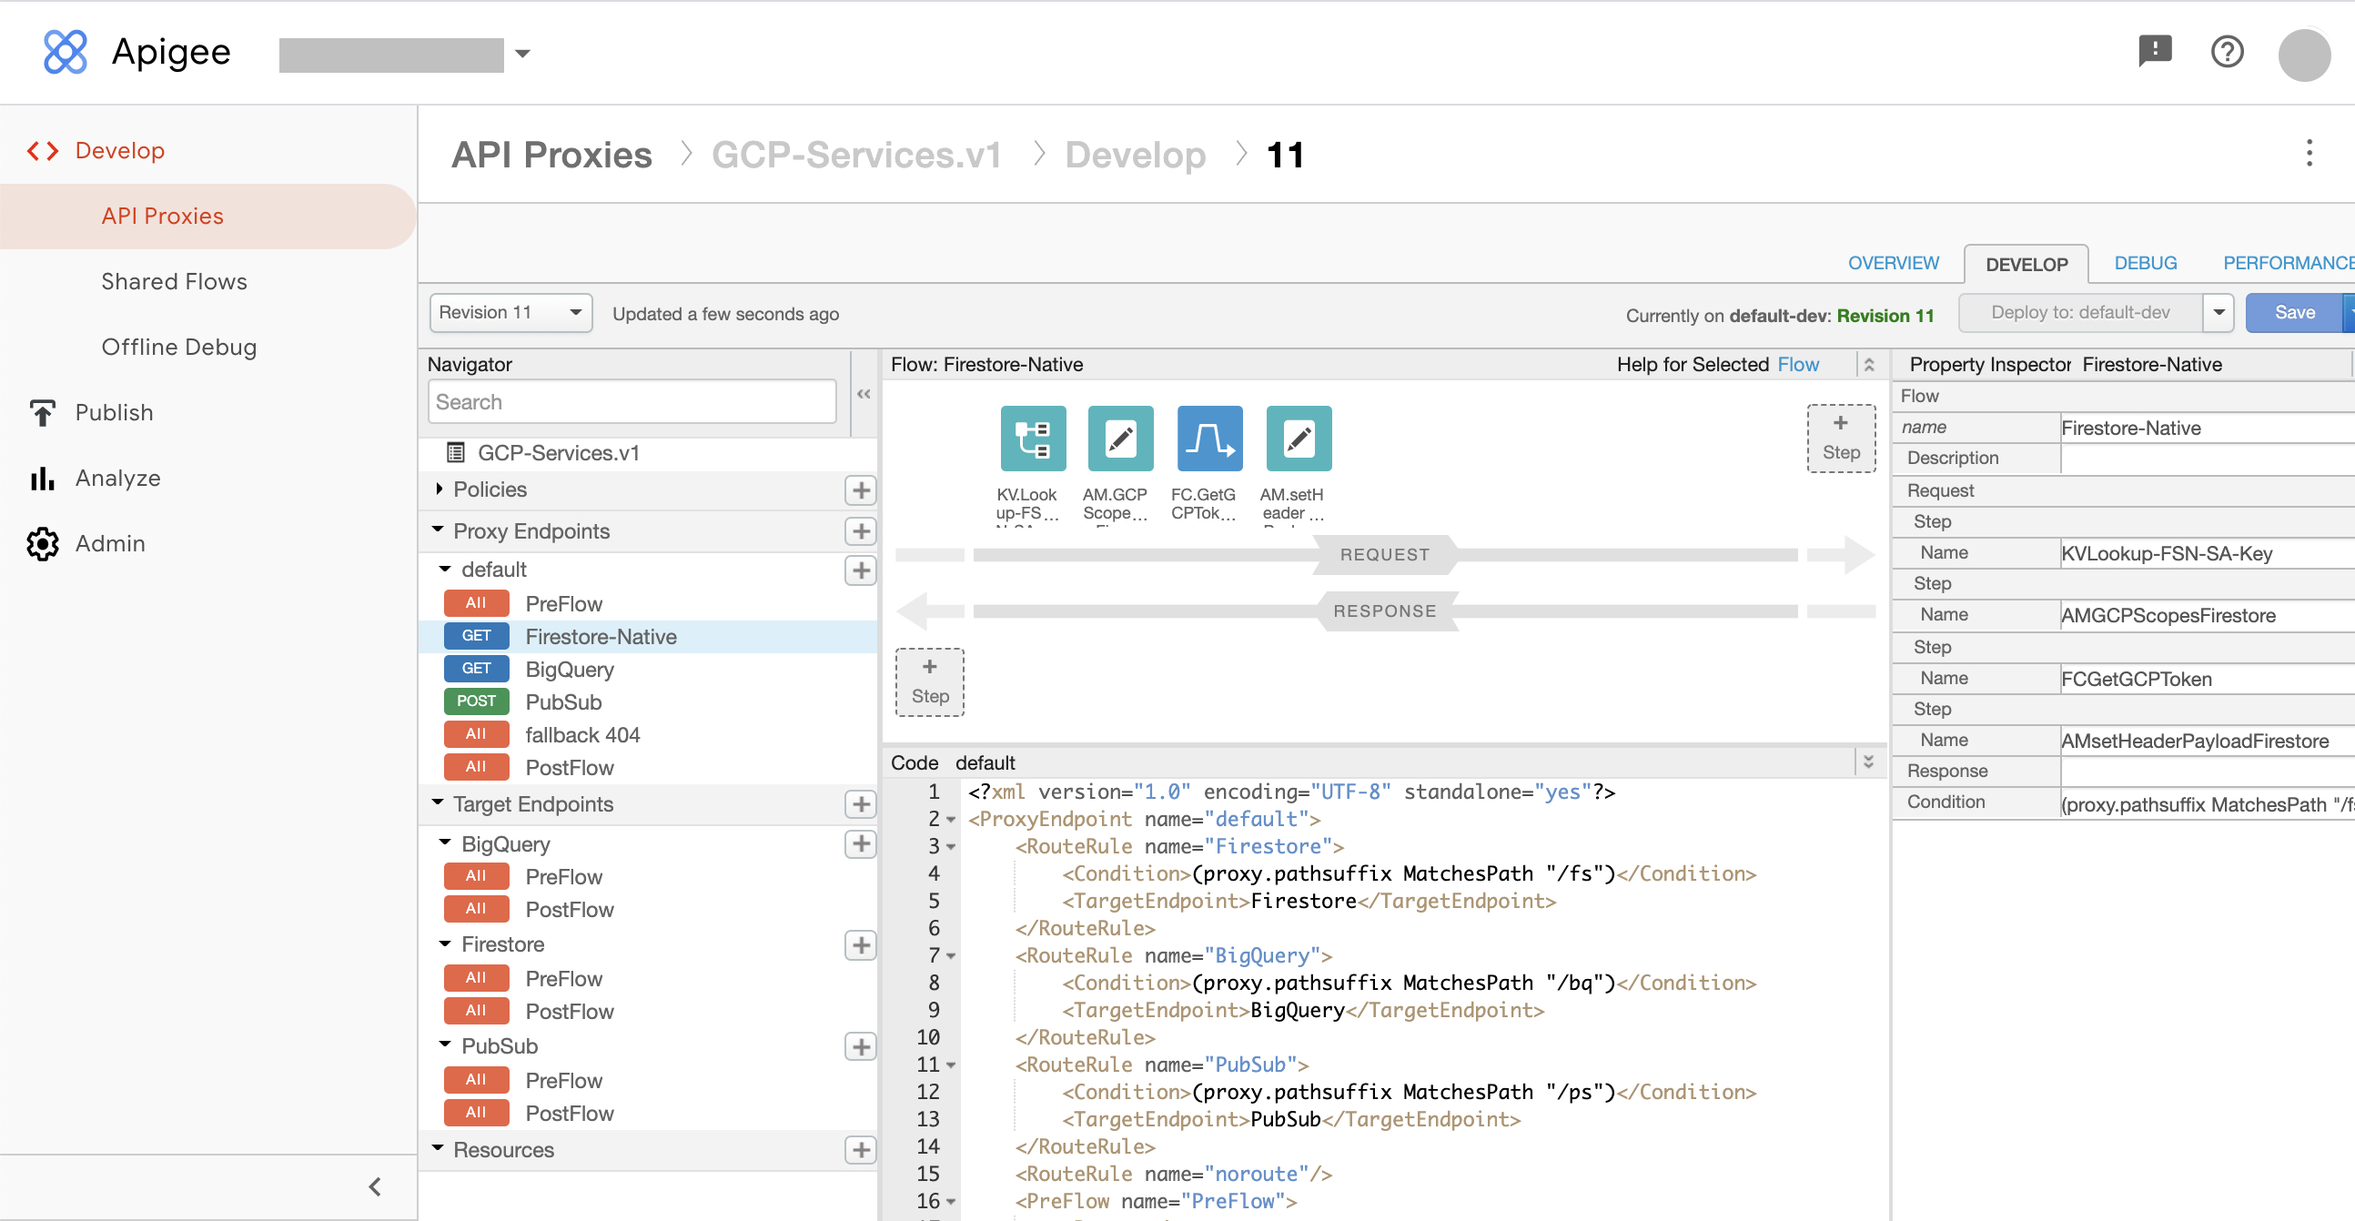
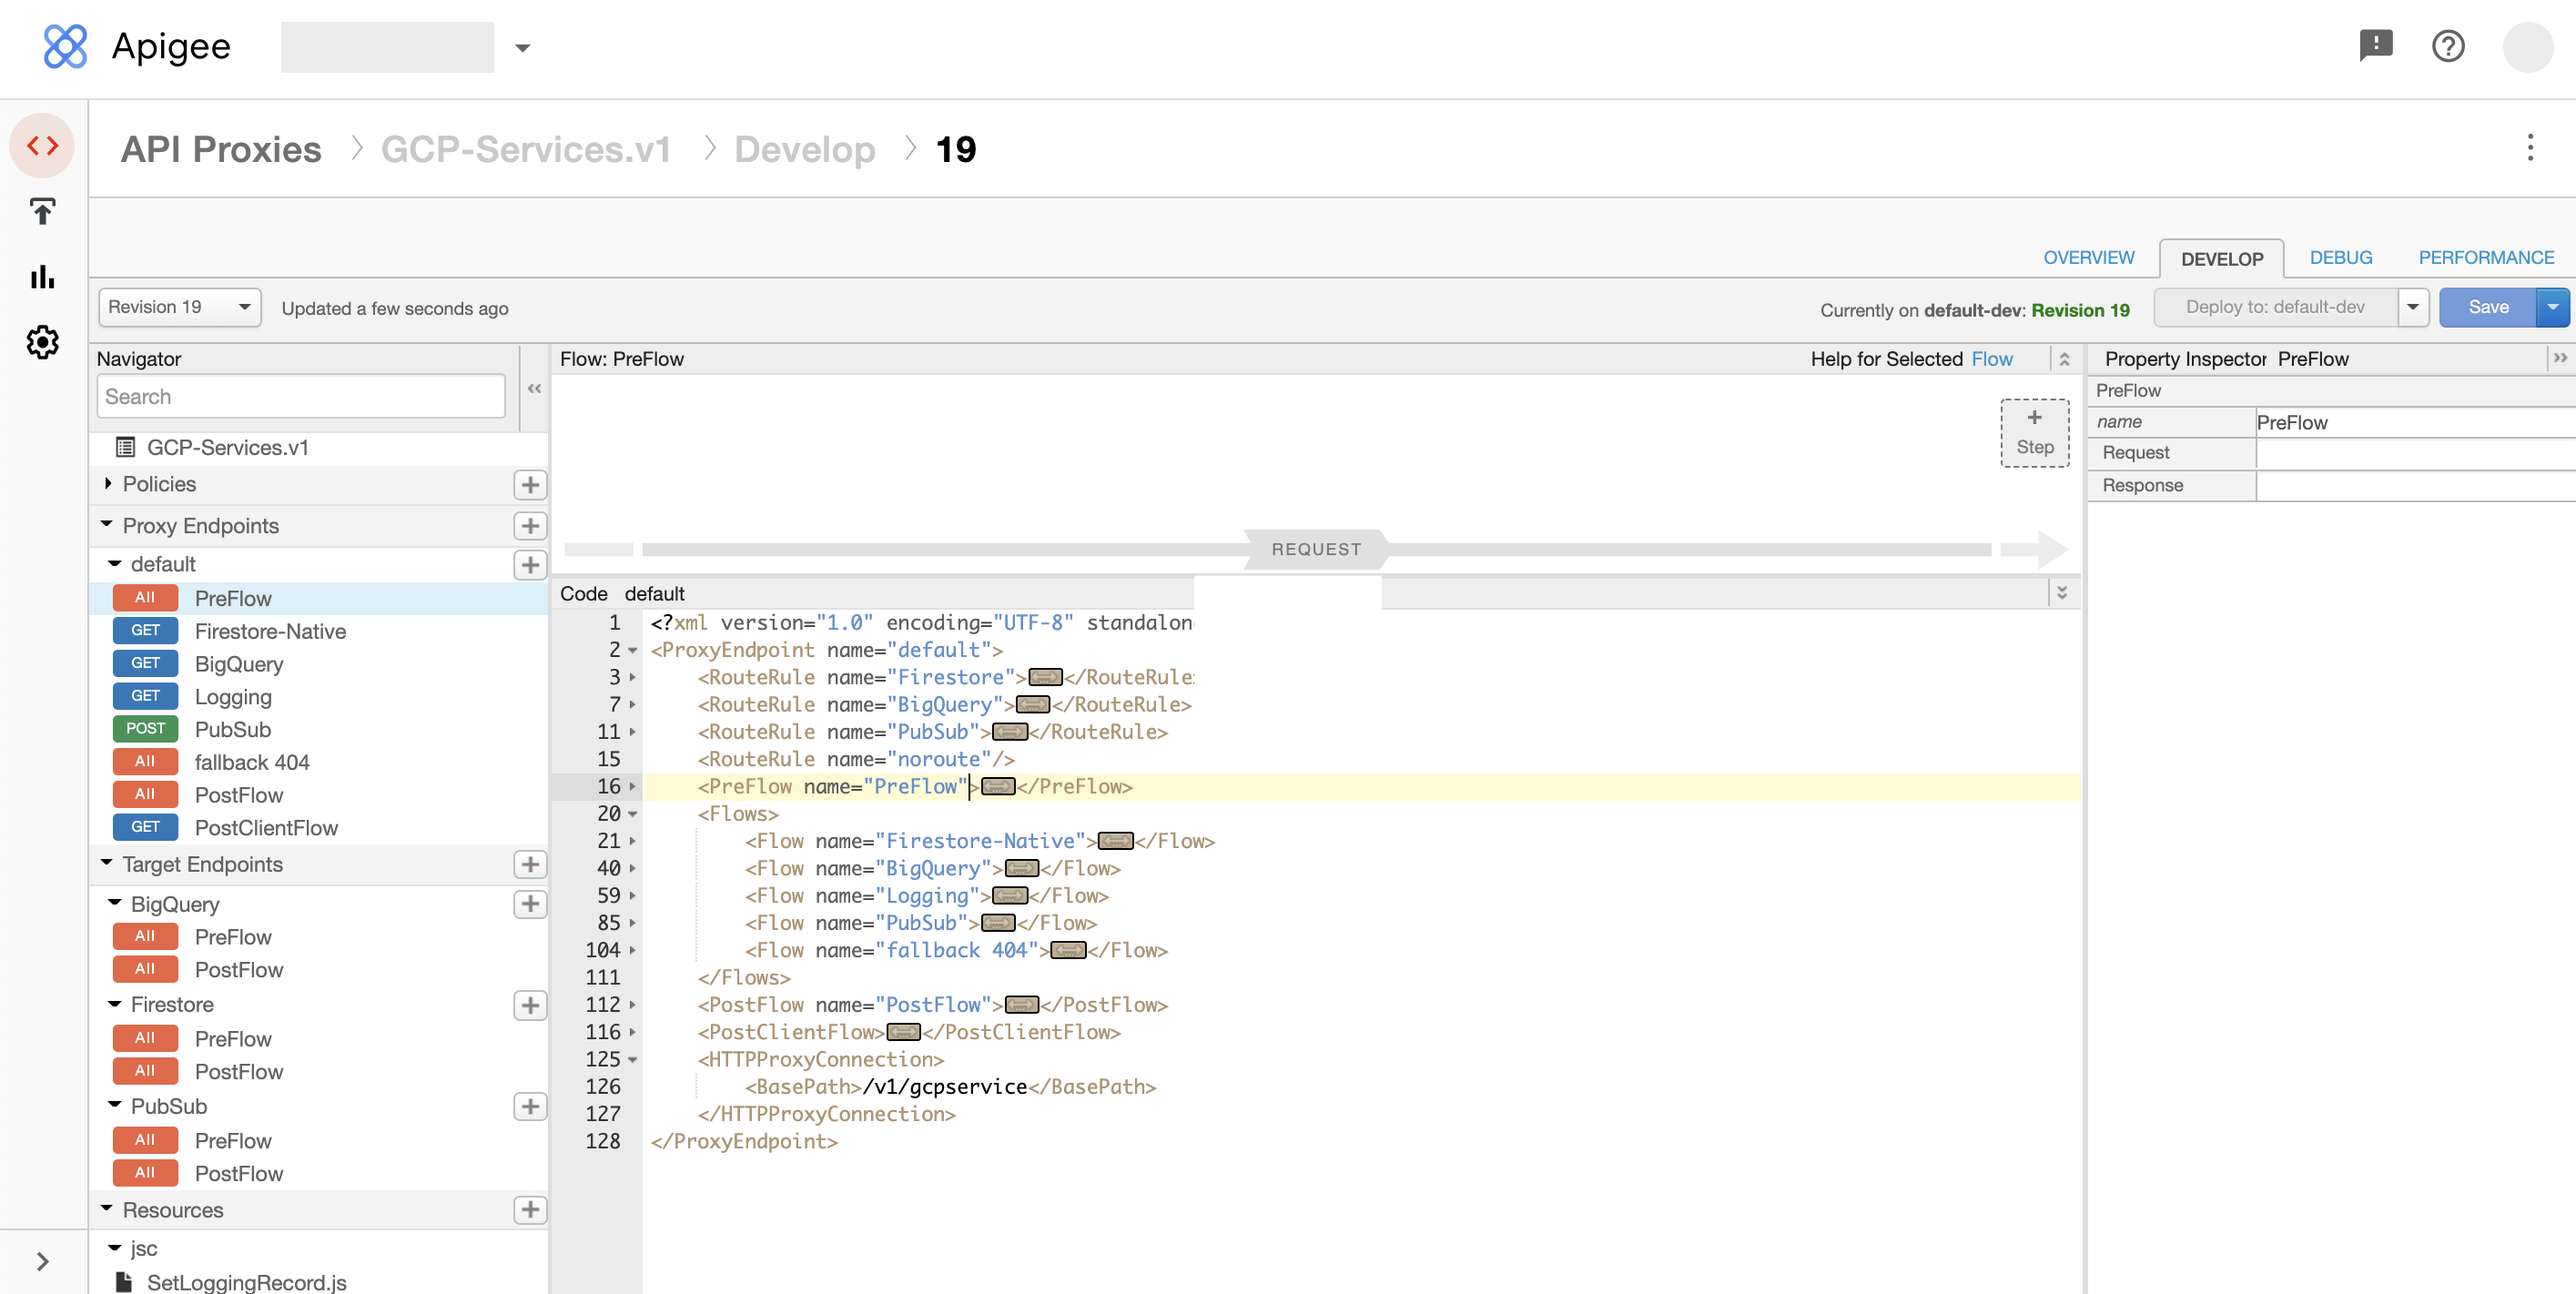
Add Cloud Logging

diff --git a/apiproxy/resources/jsc/SetLoggingRecord.js b/apiproxy/resources/jsc/SetLoggingRecord.js
@@ -1,0 +1,43 @@
+  
+var organization = context.getVariable("organization.name");
+var environment = context.getVariable("environment.name");
+var region = context.getVariable("system.region.name") || "none";
+var apiProxy = context.getVariable("apiproxy.name");
+var apiProxyRevision = context.getVariable("apiproxy.revision");
+var requestUrl = context.getVariable("request.url");
+var verb =  context.getVariable("request.verb");
+var correlationId = context.getVariable("messageid");
+var client_ip = context.getVariable("client.ip");
+var target_ip = context.getVariable("target.ip") || "none";
+var target_host = context.getVariable("target.host") || "none";
+var proxyRequestReceived = context.getVariable("client.received.end.timestamp");
+var proxyResponseSent = context.getVariable("client.sent.end.timestamp");
+var targetResponseReceived = context.getVariable("target.received.end.timestamp") || "none";
+var targetRequestSent = context.getVariable("target.sent.end.timestamp") || "none";
+var targetResponseCode = context.getVariable("message.status.code");
+var proxyResponseCode = context.getVariable("response.status.code");
+var fault_name = context.getVariable("fault.name") || "none";
+
+
+var LogRecord = {
+  "organization": organization,
+  "environment": environment,
+  "region": region,
+  "apiProxy": apiProxy,
+  "apiProxyRevision": apiProxyRevision,
+  "requestUrl": requestUrl,
+  "verb": verb,
+  "correlationId": correlationId,
+  "client_ip": client_ip,
+  "target_ip": target_ip, 
+  "target_host": target_host, 
+  "proxyRequestReceived": proxyRequestReceived,
+  "proxyResponseSent": proxyResponseSent,
+  "targetResponseReceived": targetResponseReceived,
+  "targetRequestSent": targetRequestSent,
+  "targetResponseCode": targetResponseCode,
+  "proxyResponseCode": proxyResponseCode,
+  "faultName": fault_name
+ }
+
+context.setVariable("gcplogging.logpayload", JSON.stringify(LogRecord));

diff --git a/README.md b/README.md
@@ -8,7 +8,7 @@
 
 ## Intro
 
-This repository contains a proxy for Apigee Edge/x/hybrid to call 3 GCP Services: BigQuery (read) and Cloud Firestore in Native mode (list) and PubSub (publish). It doesn't use Apigee Edge extension features.
+This repository contains a proxy for Apigee Edge/x/hybrid to call 4 GCP Services: BigQuery (read) and Cloud Firestore in Native mode (list), Cloud Logging (write) and PubSub (publish). It doesn't use Apigee Edge extension features.
 
 ![Proxy Overview](/images/proxy-overview.jpg)
 
@@ -25,13 +25,13 @@ This repository contains a proxy for Apigee Edge/x/hybrid to call 3 GCP Services
 
 3. Deploy this proxy<BR>Deploy proxy in **apiproxy** folder.
 
-4. Create GCP Service Accounts<BR>To authorize Apigee to use Google Cloud BigQuery and PubSub, you must first: 
-    - Create 3 service accounts in Google Cloud and assign it the necessary roles to access your BigQuery dataset, your Firestore collection and publish a message into a PubSub topic (see [Understanding GCP roles](https://cloud.google.com/iam/docs/understanding-roles)). 
-    - Create and download the 3 json keys for the 3 service accounts
+4. Create GCP Service Accounts<BR>To authorize Apigee to use Google Cloud BigQuery, Firestore, Cloud Logging and PubSub, you must first: 
+    - Create 4 service accounts in Google Cloud and assign it the necessary roles to access your BigQuery dataset, your Firestore collection and write in Cloud Logging and publish a message into a PubSub topic (see [Understanding GCP roles](https://cloud.google.com/iam/docs/understanding-roles)).  
+    - Create and download the 4 json keys for the 3 service accounts
 
 5. Configure GCP Services (BigQuery, Cloud Firestore in Native mode and PubSub)<BR>If needed, in your GCP project, create a BigQuery table, a Firestore Collection and a PubSub topic to be able to use this proxy.
 
-6. Upload your 3 GCP Service Account JSON files content into KVM Entries<BR>If you use Apigee X/hybrid, you can create a KVM using the following command
+6. Upload your 4 GCP Service Account JSON files content into KVM Entries<BR>If you use Apigee X/hybrid, you can create a KVM using the following command
 
 ```sh
 export TOKEN=$(gcloud auth print-access-token)
@@ -46,7 +46,7 @@ curl -X POST \
     --data "{\"name\":\"$KVM_NAME\",\"encrypted\": true}"
 ```
 
-After that, to store BigQuery, Firestore and PubSub Service accounts JSON file content, create KVM entries using kvm-admin-api:
+After that, to store BigQuery, Firestore, Cloud Logging and PubSub Service accounts JSON file content, create KVM entries using kvm-admin-api:
 
 ```sh
 export TOKEN=$(gcloud auth print-access-token)
@@ -71,12 +71,23 @@ curl -i -X POST \
    "https://$APIGEE_HOSTNAME/kvm-admin/v1/organizations/${APIGEE_ORG}/environments/$APIGEE_ENV/keyvaluemaps/$KVM_NAME/entries"
    -H "Content-Type:application/json" \
    -H "Authorization:Bearer $TOKEN" \
+   -d '{ "key": "MyLOG__privKeyPem", "value": "<copy here Cloud Logging SA key file jSON content>" } '
+
+curl -i -X POST \
+   "https://$APIGEE_HOSTNAME/kvm-admin/v1/organizations/${APIGEE_ORG}/environments/$APIGEE_ENV/keyvaluemaps/$KVM_NAME/entries"
+   -H "Content-Type:application/json" \
+   -H "Authorization:Bearer $TOKEN" \
    -d '{ "key": "MyPubSub__privKeyPem", "value": "<copy here PubSub SA key file jSON content>" } ' 
 ```
 If you use Apigee Edge, you can also use the Web UI.
 
 7. Configure this proxy
-    1. If needed, update AM.GCPScopes.BQ, AM.GCPScopes.Firestore and AM.GCPScopes.PubSub policies to set the required scopes. In, this sample proxy, we will use ```https://www.googleapis.com/auth/pubsub``` scope for PubSub, ```https://www.googleapis.com/auth/datastore``` for Firestore and, ```https://www.googleapis.com/auth/bigquery.readonly``` for BigQuery.<BR>You can find documentation about GCP service scopes in [GCP documentation.](https://developers.google.com/identity/protocols/oauth2/scopes)
+    1. If needed, update AM.GCPScopes.BQ, AM.GCPScopes.Firestore, AM.GCPScopes.LOG and AM.GCPScopes.PubSub policies to set the required scopes. In, this sample proxy, we will use: 
+    - ```https://www.googleapis.com/auth/pubsub``` scope for PubSub, 
+    -  ```https://www.googleapis.com/auth/datastore``` for Firestore  
+    -  ```https://www.googleapis.com/auth/logging.write``` for Cloud Logging
+    - ```https://www.googleapis.com/auth/bigquery.readonly``` for BigQuery.
+    <BR>You can find documentation about GCP service scopes in [GCP documentation.](https://developers.google.com/identity/protocols/oauth2/scopes)
 
     2. Update AM.setHeaderPayload.BQ policy<BR>Update the payload with your BigQuery query statement:
     ```
@@ -91,7 +102,7 @@ If you use Apigee Edge, you can also use the Web UI.
         <Name>gcp.projectid</Name>
         <Value>xxxxx</Value>
     </AssignVariable>
-    ````
+    ```
 
     3. Update AM.setHeaderPayload.Firestore policy<BR>Set **gcp.projectid** and **collection.name** value with your GCP Project ID and Firestore collection name:
     
@@ -104,9 +115,23 @@ If you use Apigee Edge, you can also use the Web UI.
         <Name>collection.name</Name>
         <Value>yyyyy</Value>
     </AssignVariable>
-    ````
+    ```
 
-    4. AM.setHeaderPayload.PubSub policy.<BR>Set **gcp.projectid** and **gcp.topicid** value with your GCP Project ID and PubSub topic:
+    4. Update AM.setHeaderPayload.LOG policy<BR>Set **gcp.projectid** and **gcplogging.logid** value with your GCP Project ID and the log name you want to use:
+    
+    ```
+    <AssignVariable>
+        <Name>gcp.projectid</Name>
+        <Value>xxxxx</Value>
+    </AssignVariable>
+    <AssignVariable>
+        <Name>gcplogging.logid</Name>
+        <Value>yyyyy</Value>
+    </AssignVariable>
+    ```
+    > **_NOTE:_**  the log record format is defined in JS-SetLoggingRecord javascript policy
+
+    5. AM.setHeaderPayload.PubSub policy.<BR>Set **gcp.projectid** and **gcp.topicid** value with your GCP Project ID and PubSub topic:
 
     ```
     <AssignVariable>
@@ -131,6 +156,11 @@ curl -i -X GET  'https://<YOUR-HOSTNAME>/v1/gcpservice/bq'
 - Firestore (it returns all documents in the collection defined in proxy)
 ```
 curl -i -X GET 'https://<YOUR-HOSTNAME>/v1/gcpservice/fs'
+```
+
+- Cloud Logging (it returns th elink to Google Cloud Console, Cloud Logging Query builder)
+```
+curl -i -X GET 'https://<YOUR-HOSTNAME>/v1/gcpservice/log'
 ```
 
 - PubSub (body contains the message to be post in topic specified in the proxy)
